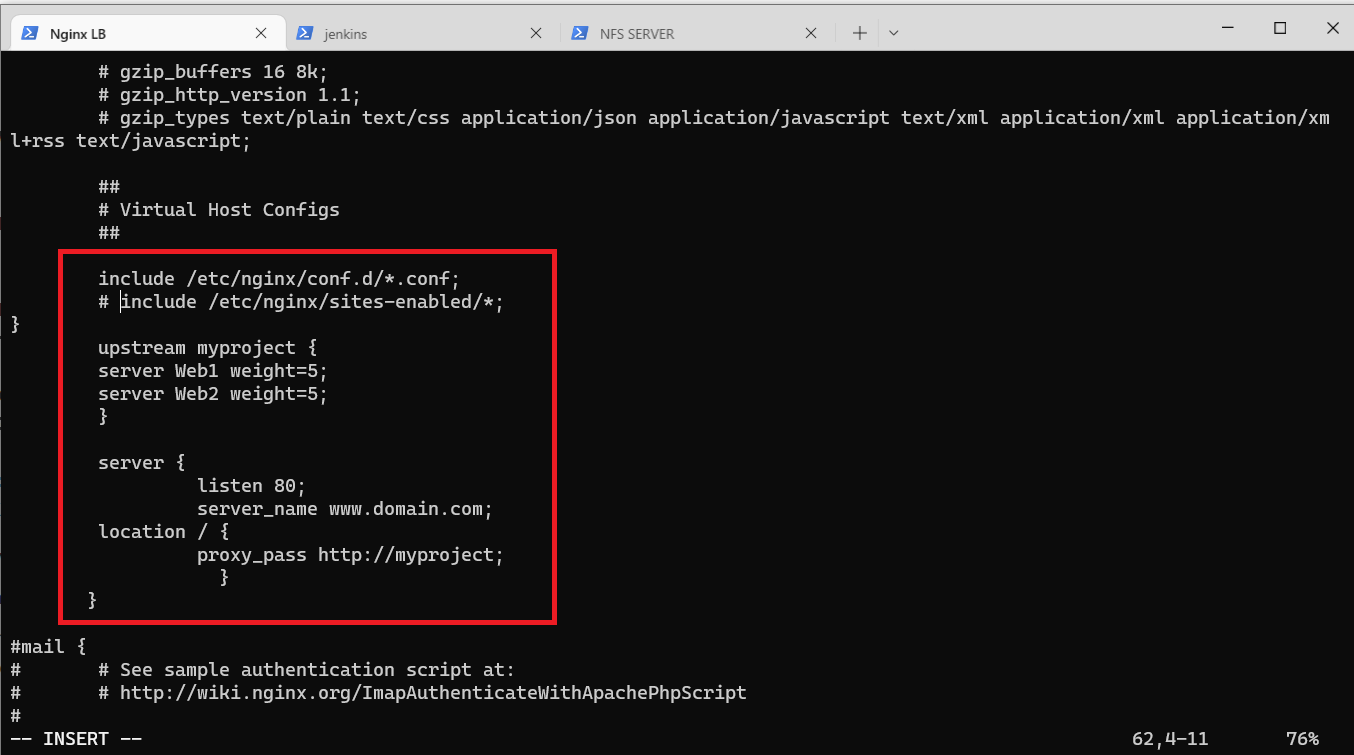
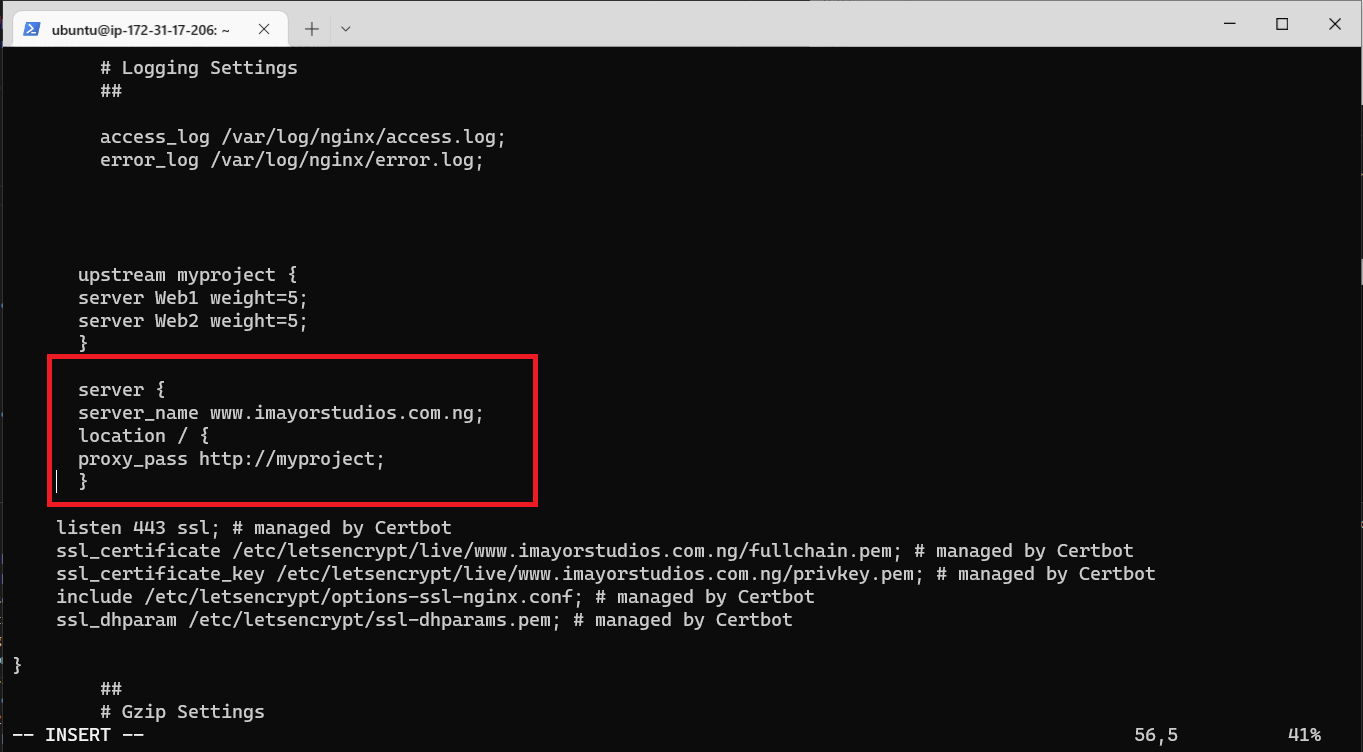
Project 10 completed

diff --git a/Project10_Load_balancer_solution_with_NGINX_and_SSL_TLS/project10.md b/Project10_Load_balancer_solution_with_NGINX_and_SSL_TLS/project10.md
@@ -17,29 +17,29 @@ I terminated the apache load balancer server and launched a new EC2 Instance(Ubu
 
 * Opening TCP port 80 for HTTP and 443 for HTTPS on the security group
 
-![ec2](./img/1-ec2.PNG)
+![ec2](./img/2-security.PNG)
 ## STEP 1: Configuring Nginx As A Load Balancer
 
 * Updating the server:  `sudo apt update`
 
-![update](./img/2-LVM.PNG)
+![update](./img/3-update.PNG)
 
 * Upgrading the server: `sudo apt upgrade`
 
-![upgrade](./img/2-LVM.PNG)
+![upgrade](./img/4-upgrade.PNG)
 
 * Installing Nginx: `sudo apt install nginx`
 
-![upgrade](./img/2-LVM.PNG)
+![upgrade](./img/5-nginx.PNG)
 
 
 * 2 - Update /etc/hosts file for local DNS with Web Servers’ names (e.g. Web1 and Web2) and their local IP addresses: `sudo vi /etc/hosts`
 
-![upgrade](./img/2-LVM.PNG)
+![host](./img/6-host.PNG)
 
 * Configuring the Nginx LB to make use of the Webserver’s names defined in the /etc/hosts: `sudo vi /etc/nginx/nginx.conf`
 
-![upgrade](./img/2-LVM.PNG)
+![server](./img/7-server.PNG)
 
 * Adding the following configuration in the http section:
 
@@ -59,7 +59,7 @@ server {
 
 ```
 
-![upgrade](./img/2-LVM.PNG)
+
 
 
 * Restart Nginx service: `sudo systemctl restart nginx`
@@ -67,68 +67,102 @@ server {
 * And make sure the service is up and running: `sudo systemctl status nginx`
 
 
+![nginx](./img/13-nginx.PNG)
+
 ## STEP 2: REGISTER A NEW DOMAIN NAME AND CONFIGURE SECURED CONNECTION USING SSL/TLS CERTIFICATES.
 
 * 1 - In order to get a valid SSL certificate – I registered a new domain name. 
 
-![ec2](./img/1-ec2.PNG)
+      `http://imayorstudios.com.ng/`
 
 * 2 - I assigned an Elastic IP to my Nginx LB server and associated my domain name with this Elastic IP (Since I am using a free-tier EC2 services, I used the Public domain)
 
-![ec2](./img/1-ec2.PNG)
 
-* 3 - Update a **record** in my registrar to point to Nginx LB using Elastic IP address
+* 3 - Update a **record** in my registrar to point to Nginx LB using Elastic IP address. (I did not use Elastic IP Address since I am using the free-tier)
 
-![ec2](./img/1-ec2.PNG)
+After the connection was successful, create RECORD on the under Route 53
+and make sure it is pointing to the Ngnix Load Balancer public IP
+
+![route53](./img/14-route53.PNG)
+
+
+![hosted-zone](./img/15-hosted-zone.PNG)
+
+
+![records](./img/16-records.PNG)
+
+
+![www](./img/20-www.PNG)
 
 
 * Check that my Web Servers can be reached from my browser using new domain name using HTTP protocol – http://<your-domain-name.com>
 
-![ec2](./img/1-ec2.PNG)
+e.g. `www.imayorstudios.com.ng`
+
+
+**Mitigation: I had to register a new domain and hosted it to be able to carry out this project. I could not access a free domain from Freenom.com**
 
 
 * 4 - Configure Nginx to recognize my new domain name: `sudo vi /etc/nginx/nginx.conf`
 
 Update your `nginx.conf` with `server_name www.<your-domain-name.com>` instead of `server_name www.domain.com`
 
-![upgrade](./img/2-LVM.PNG)
+e.g. server_name www.imayorstudios.com.ng
 
-* 5 - Install certbot and request for an SSL/TLS certificate
+
+![server-name](./img/7-server.PNG)
+
+
+
+* ## 5 - Install certbot and request for an SSL/TLS certificate
 
 * Make sure snapd service is active and running, inorder to install certbot: `sudo systemctl status snapd`
 
-![upgrade](./img/2-LVM.PNG)
+![snapd](./img/9-snapd.PNG)
 
 * Installing certbot that will be used to request for SSL/TLS certificate: `sudo snap install - -classic certbot`
 
-![upgrade](./img/2-LVM.PNG)
+
 
 * Creating a symlink for the certbot from /snap/bin to /usr/bin: `sudo ln -s /snap/bin/certbot /usr/bin/certbot`
 
 
-![upgrade](./img/2-LVM.PNG)
+![certbot](./img/10-certbot.PNG)
 
-* Requesting for my certificate and selecting my domain name: `sudo certbot - -nginx`
+* Requesting for my certificate and selecting my domain name: `sudo certbot --nginx`
 
-![ec2](./img/1-ec2.PNG)
+![certbot-nginx](./img/10-certbot-nginx.PNG)
+
+
+* I tested secured access to my Web Solution by trying to reach `https://imayorstudios.com.ng`
+
+
+![webpage](./img/25-webpage.PNG)
+
+* I clicked on the padlock icon and I could see the details of the certificate issued for my website.
+
+
+![ssl](./img/26-ssl.PNG)
+
 
 * 5 - Set up periodical renewal of your SSL/TLS certificate
 
 * Testing the renewal command in a dry-run mode: `sudo certbot renew - -dry-run`
 
 
-![upgrade](./img/2-LVM.PNG)
+![dry-run](./img/28-dry-run.PNG)
 
 
 * Configuring a cronjob to run renew command for my SSL/TSL certificate twice a day: `crontab -e`
-
-
-![upgrade](./img/2-LVM.PNG)
-
 
 * Adding the following line:
 `* */12 * * * root /usr/bin/certbot renew > /dev/null 2>&1`
 
 
 
-![upgrade](./img/2-LVM.PNG)
+![crontab](./img/29-crontab.PNG)
+
+
+Hola! Done with it. 
+
+Mitigation: I had to register a new domain and hosted it to be able to carry out this project. I could not access a free domain from Freenom.com
